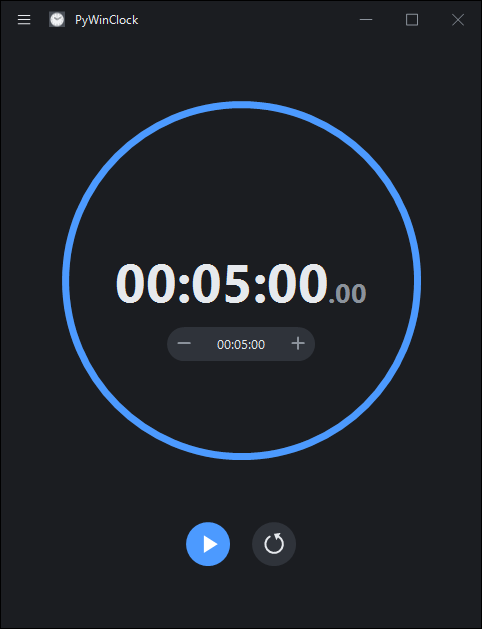
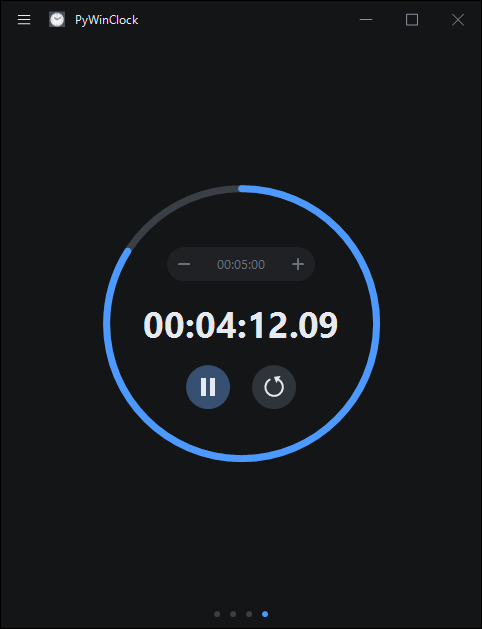
README for the current features, fresh screenshots

diff --git a/README.md b/README.md
@@ -1,11 +1,13 @@
 ## Features
 
-* Analog and digital clock, with local time and UTC.
-* World clock on a day and night map, with cities searched by name or time zone.
+* Analog and digital clock. Turn on UTC in Settings and a Local / UTC switch under the time picks which one the dial and the digits show.
+* World clock on a day and night map, with the UTC meridian and the date line. Cities are searched by name or time zone, and one of them can be set as home.
 * Stopwatch with laps, marking the fastest and slowest.
-* Countdown with a progress ring and a beep at zero.
+* Countdown with a progress ring and a beep at zero. The ring changes colour for the last ten seconds.
+* Drag a page sideways, or click the dots under it, to go between Clock, World, Stopwatch and Countdown.
 * Classic and minimal clock faces, smooth or ticking second hand.
-* Auto, dark and light themes.
+* Auto, dark and light themes, with a blue or red accent.
+* The title bar can stay hidden until the mouse is over the window, and the window can stay on top.
 * A tray icon with Close to tray; the clock keeps running while hidden.
 * World map from Natural Earth, public domain.
 
